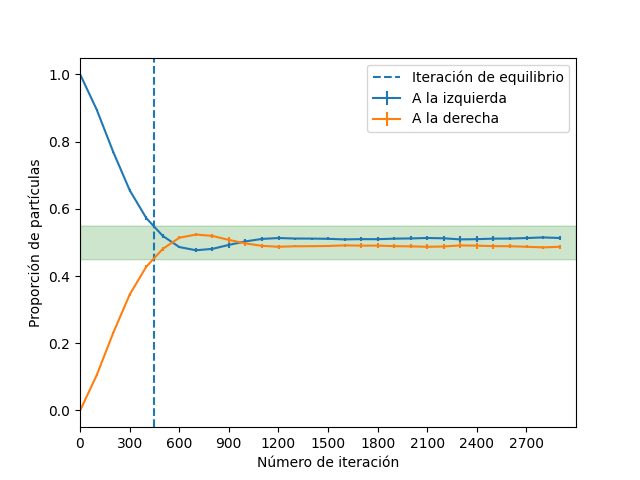
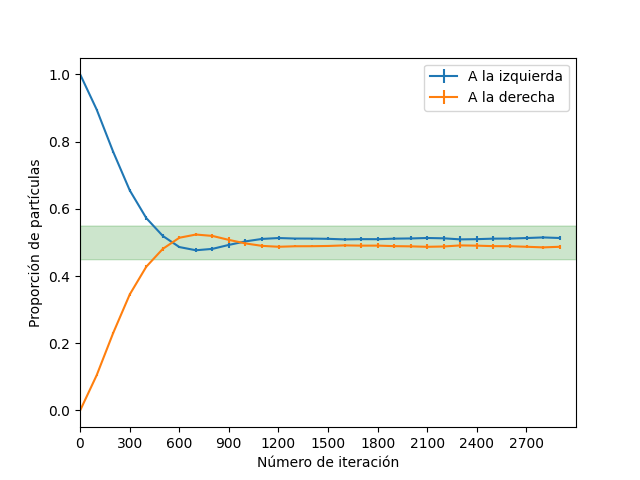
taking out the equilibrium vertical line.

Changed region(s): [[0.5625, 0.125, 0.875, 0.2812], [0.625, 0.125, 0.6562, 0.1562]]

diff --git a/tp2/out/particleVsTimeNVary.py b/tp2/out/particleVsTimeNVary.py
@@ -7,7 +7,7 @@ epsilon = 0.05
 
 if __name__ == '__main__':
     current_index = 0
-    equilibrium_point = [3000, 558, 466, 446, 436, 428, 424, 422]
+    # equilibrium_point = [3000, 558, 466, 446, 436, 428, 424, 422]
     path = r'/home/shadad/Desktop/tp2pod/simulacion-de-sistemas/tp2/out'
     for particle_number in [2000, 3000, 4000, 5000, 6000, 7000, 8000, 9000]:
         regex = 'outputThirdLap_d50_n' + str(particle_number) + '_i*_aggregate.csv'
@@ -37,7 +37,7 @@ if __name__ == '__main__':
         plt.xticks(np.arange(0, 3000, 300))
         plt.ylabel('Proporción de partículas')
         plt.fill_between([i for i in range(3000)], lower, upper, color='green', alpha=0.2)
-        plt.axvline(x=equilibrium_point[current_index], linestyle='dashed', label='Iteración de equilibrio')
+        # plt.axvline(x=equilibrium_point[current_index], linestyle='dashed', label='Iteración de equilibrio')
         plt.legend()
         plt.savefig("./plots/ThirdTimeRatioN_"+str(particle_number) + '.png')
         plt.clf()

diff --git a/tp2/out/particleVsTimeGapVary.py b/tp2/out/particleVsTimeGapVary.py
@@ -8,7 +8,7 @@ particle_number = 5000
 
 if __name__ == '__main__':
     current_index = 0
-    equilibrium_point = [1037, 448, 623, 565, 826, 772, 992, 1253]
+    # equilibrium_point = [1037, 448, 623, 565, 826, 772, 992, 1253]
     path = r'/home/shadad/Desktop/tp2pod/simulacion-de-sistemas/tp2/out'
     for gap in [25, 50, 75, 100, 125, 150, 175, 200]:
         regex = 'outputSecondLap_d' + str(gap) + '_n5000_i*_aggregate.csv'
@@ -38,7 +38,7 @@ if __name__ == '__main__':
         plt.xticks(np.arange(0, 3000, 300))
         plt.ylabel('Proporción de partículas')
         plt.fill_between([i for i in range(3000)], lower, upper, color='green', alpha=0.2)
-        plt.axvline(x=equilibrium_point[current_index], linestyle='dashed', label='Iteración de equilibrio')
+        # plt.axvline(x=equilibrium_point[current_index], linestyle='dashed', label='Iteración de equilibrio')
         plt.legend()
         plt.savefig("./plots/TimeRatioD_"+str(gap) + '.png')
         plt.clf()
